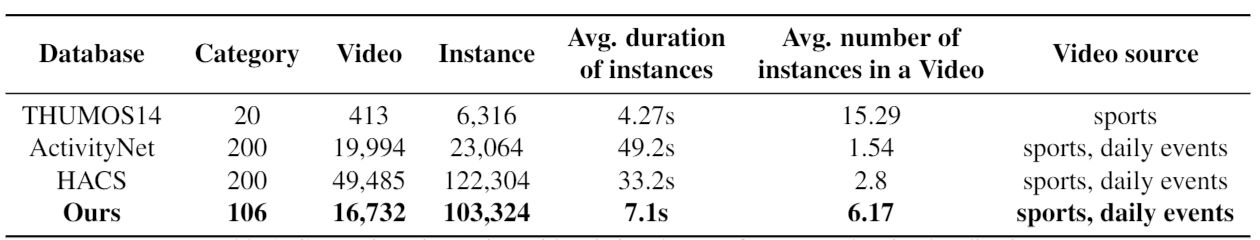
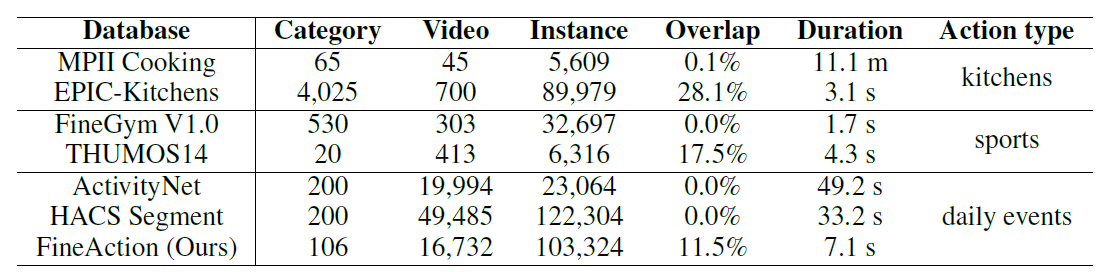
update

Changed region(s): [[0.0, 0.0583, 1.0, 0.9917]]

diff --git a/_pages/fineaction.html b/_pages/fineaction.html
@@ -50,7 +50,15 @@ author_profile: false
 						<header>
 						<h3>Abstract</h3>
 						</header>
-						<p style="text-align:justify; text-justify:inter-ideograph;">On the existing benchmark datasets, THUMOS14 and ActivityNet, temporal action localization techniques have achieved great success. However, there are still existing some problems, such as the source of the action is too single, there are only sports categories in THUMOS14,  coarse instances with uncertain boundaries in ActivityNet and HACS Segments interfering with proposal generation and behavior prediction.To take temporal action localization to a new level, we develop <i><b>FineAction</i></b>, a new large-scale fined video dataset collected from existing video datasets and web videos. Overall, this dataset contains 139K fined action instances densely annotated in almost 17K untrimmed videos spanning 106 action categories. FineAction has a more fined definition of action categories and high-quality annotations to reduce the boundary uncertainty compared to the existing action localization datasets. We systematically investigate representative methods of temporal action localization on our dataset and obtain some interesting findings with further analysis. Experimental results reveal that our FineAction brings new challenges for action localization on fined and multi-label instances with shorter duration. This dataset will be public in the future and we hope our FineAction could advance research towards temporal action localization.</p>
+						<p style="text-align:justify; text-justify:inter-ideograph;">Temporal action localization (TAL) is an important and challenging problem in video understanding.
+							 However, most existing TAL benchmarks are built upon the coarse granularity of action classes, which exhibits two major limitations in this task. 
+							 First, coarse-level actions can make the localization models overfit in high-level context information, and ignore the atomic action details in the video. 
+							 Second, the coarse action classes often lead to the ambiguous annotations of temporal boundaries, which are inappropriate for temporal action localization. 
+							 To tackle these problems, we develop a novel large-scale and fine-grained video dataset, coined as <i><b>FineAction</i></b>, for temporal action localization. 
+							 In total, FineAction contains 103K temporal instances of 106 action categories, annotated in 17K untrimmed videos. 
+							 FineAction introduces new opportunities and challenges for temporal action localization, thanks to its distinct characteristics of fine action classes with rich diversity, dense annotations of multiple instances, and co-occurring actions of different classes. 
+							 To benchmark FineAction, we systematically investigate the performance of several popular temporal localization methods on it, and deeply analyze the influence of short-duration and fine-grained instances in temporal action localization. 
+							 We believe that FineAction can advance research of temporal action localization and beyond.</p>
 						<!-- <header>
 							<h3>Demo Video</h3>
 							<p>Please choose "1080P" for better experience.</p>
@@ -71,16 +79,14 @@ author_profile: false
 						</p>
 						<ol>
 							<li>
-								Comparing FineAction with existing datasets for temporal action localization.
-								<span class="image fit"><img src="/images/fineaction/tab1.png" alt="comparison with other dataset"/></span>
+								Comparison with Related Benchmarks. 
+								Our FineAction is unique due to its fine-grained action classes, multi-label and dense annotations, relatively large-scale capacity, and rich action diversity. 
+								<span class="image fit"><img src="/images/fineaction/tab1.png"  /></span>
 							</li>
 							<li>
-								Number of instances per category for FineAction.
-								<span class="image fit"><img src="/images/fineaction/pic1.png" alt="comparison with other dataset"/></span>
-							</li>
-							<li>
-								Comparison of datasets: the number of instances  (a) and categories per video (c). The distribution of duration of instances (b) and overlap (d) on FineAction.
-								<span class="image fit"><img src="/images/fineaction/pic2.png" alt="number of instances"/></span>
+								Number of instances per category. We plot the instance distribution of all the bottom-level categories in each top-level category. 
+								All the plots exhibit the natural long-tailed distribution.
+								<span class="image fit"><img src="/images/fineaction/pic1.png"  /></span>
 							</li>
 						</ol>
 						<!-- <header>
@@ -108,12 +114,14 @@ author_profile: false
 						</header>
 						<ol>
 							<li>
-							Comparisons with state-of-the-art proposal generation methods on our FineAction in terms of AR@AN, where SNMS stands forSoft-NMS.
-							<span class="image fit"><img src="/images/fineaction/exp2.png" alt="Comparison of SOTA methods" /></span>
+								Comparison of the state-of-the-art methods on the validation set of FineAction. 
+								Left: evaluation on action proposal generation, in terms of AR@AN.  
+								Right : evaluation on action detection, in terms of mAP at IoU thresholds from 0.5 to 0.95.
+							<span class="image fit"><img src="/images/fineaction/exp2.png"   /></span>
 							</li>
 							<li>
 							Performance evaluation of state-of-the-art methods on our FineAction in terms of mAP at IoU thresholds from 0.3 to 0.7.
-							<span class="image fit"><img src="/images/fineaction/exp3.png" alt="Comparison between SlowFast and SlowOnly" /></span>
+							<span class="image fit"><img src="/images/fineaction/exp3.png"   /></span>
 							</li>
 						</ol>
 						<header>
